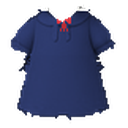
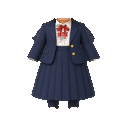
v19 batch 5: regenerated formal outfit (10 cells), re-add o_formal

diff --git a/js/avatar.js b/js/avatar.js
@@ -191,7 +191,7 @@ export function frame(ch, key) { if (!ch.av) return null; if (key && key.startsW
 
 // ---------------- v17 LAYERED test set (2D): one still 200x284 PNG per direction per layer (base · outfit+tint mask · hair), foot pivot (100,272).
 // Only the shipped hairs/outfits are offered; any other code maps to the nearest shipped item (old codes keep working).
-const NEW_O = ['hanbok']; // v19: hanbok regenerated (real jeogori+chima / jeogori+baji), 5-dir per-cell + 3x checks passed 2026-10-31; other 5 still pulled
+const NEW_O = ['hanbok', 'formal']; // v19: hanbok+formal regenerated, 5-dir per-cell + 3x checks passed 2026-10-31; winter/summer/spring/autumn still pulled
 export const SHIP = { f: { hairs: [0, 4, 5, 6], outfits: ['basic', 'choir', 'mint', 'sky', 'lav', 'peach', ...NEW_O] }, m: { hairs: [0, 1, 2, 3, 4, 5, 6], outfits: ['basic', 'mint', 'sky', 'lav', 'peach', 'navy', 'choir', ...NEW_O] } };
 const NEAR_H = { f: [0, 6, 4, 4, 4, 5, 6, 4], m: [0, 1, 2, 3, 4, 5, 6] }; // index in HAIRS[g] → shipped index
 export const LAYER_PIVOT = [100, 272];

diff --git a/MORNING_REPORT.md b/MORNING_REPORT.md
@@ -128,3 +128,11 @@ Tests: beta_suite 160/160 local; test_walk_scale PASS; test_presence 6/6 PASS on
 - Re-added in all three places, consistently: config gacha.pool (o_hanbok 희귀 w8 → 13 items/244), NEW_O=['hanbok'], server gacha_pool active (migration 20261031_09; server active = 13/244, matches config).
 - Still pulled: o_formal, o_winter, o_summer, o_spring, o_autumn (not regenerated yet). Boy-shorts piping, choir seam and girl hairs h00/h01/h02/h11 are not done yet.
 - Beta suite 160/160.
+
+## 10-31 batch 5: formal (예배 정장) re-added
+- Regenerated all 10 cells: girl navy blazer, blouse with red bow, pleated skirt and tights; boy charcoal-navy suit with red tie. The boy cells are edits of the base pose, so they match the stride.
+- Girl NW: the generated NW came out front-facing, so it uses the N back view (same approach as the hanbok). Girl SW is frontal, which is acceptable at this size.
+- Pipeline additions: outfit interiors are forced fully opaque, and brown specks over white shoes are dropped at the feet (boy SW).
+- Checks passed: per-cell fit, 3x upper and lower body, 6x feet and blouse close-ups, in-game 5-direction stills for f and m.
+- Re-added in all three places: config pool 14 items / 252, NEW_O=['hanbok','formal'], migration 20261031_10 applied. Server active pool matches.
+- Beta suite 160/160.
